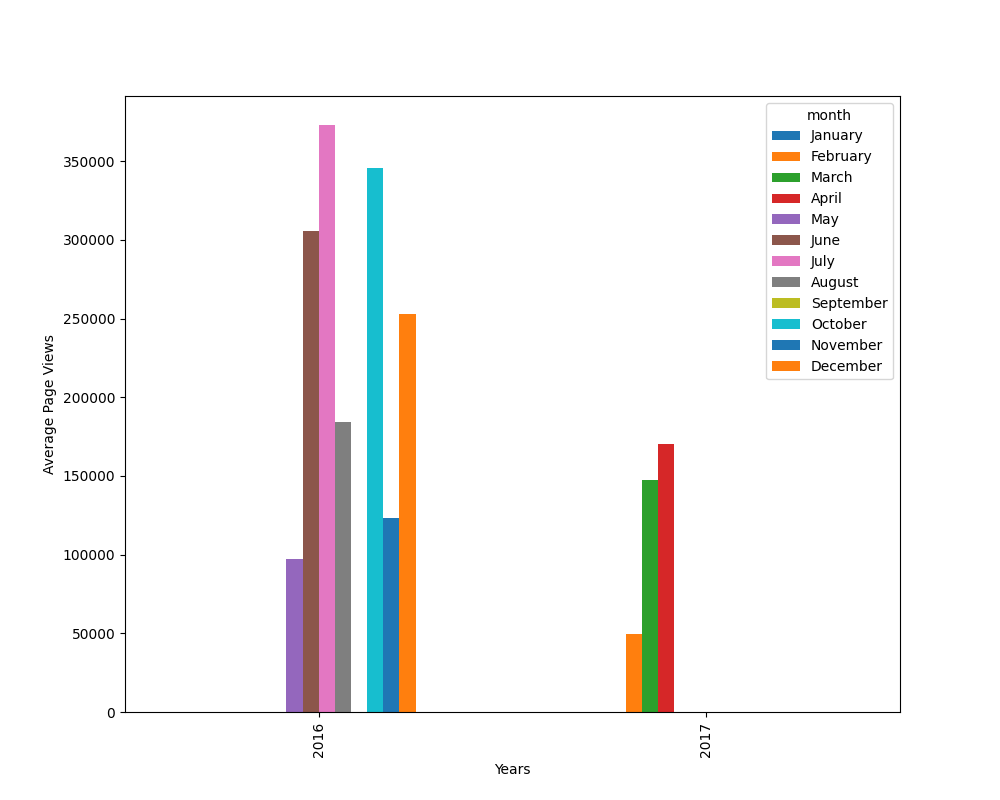
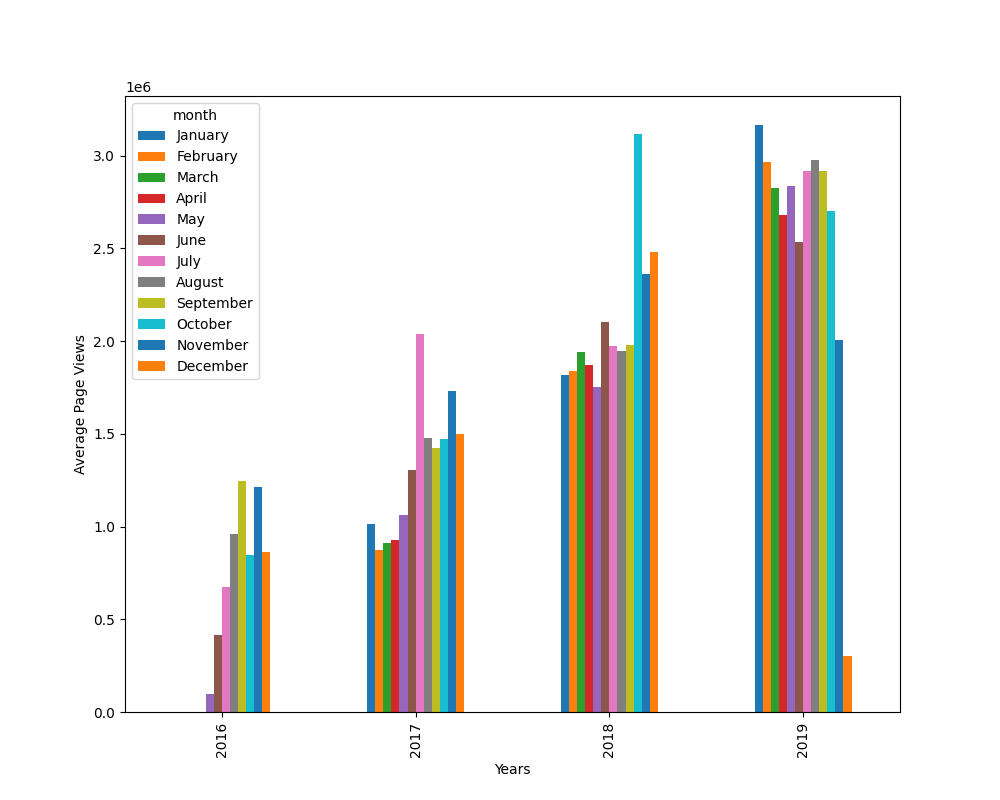
fixed quantile

diff --git a/time_series_visualizer.py b/time_series_visualizer.py
@@ -1,6 +1,7 @@
 import matplotlib.pyplot as plt
 import pandas as pd
 import seaborn as sns
+import numpy as np
 from pandas.plotting import register_matplotlib_converters
 register_matplotlib_converters()
 
@@ -8,7 +9,7 @@ register_matplotlib_converters()
 df = pd.read_csv('fcc-forum-pageviews.csv', parse_dates=['date'], index_col=['date'])
 
 # Clean data
-df = df[df['value'].between(df['value'].quantile(.025), df['value'].quantile(.095))]
+df = df[df['value'].between(df['value'].quantile(.025), df['value'].quantile(.975))]
 months = ['January','February', 'March', 'April', 'May', 'June', 'July', 'August', 'September', 'October','November','December']
 
 def draw_line_plot():
@@ -63,7 +64,7 @@ def draw_box_plot():
     ax[0].set(xlabel='Year',ylabel='Page Views')
     sns.boxplot(data=df_box, x='month', y ='value', ax = ax[1], palette='pastel').set_title('Month-wise Box Plot (Seasonality)')
     ax[1].set(xlabel='Month',ylabel='Page Views')
-
+    
 
 
     # Save image and return fig (don't change this part)
